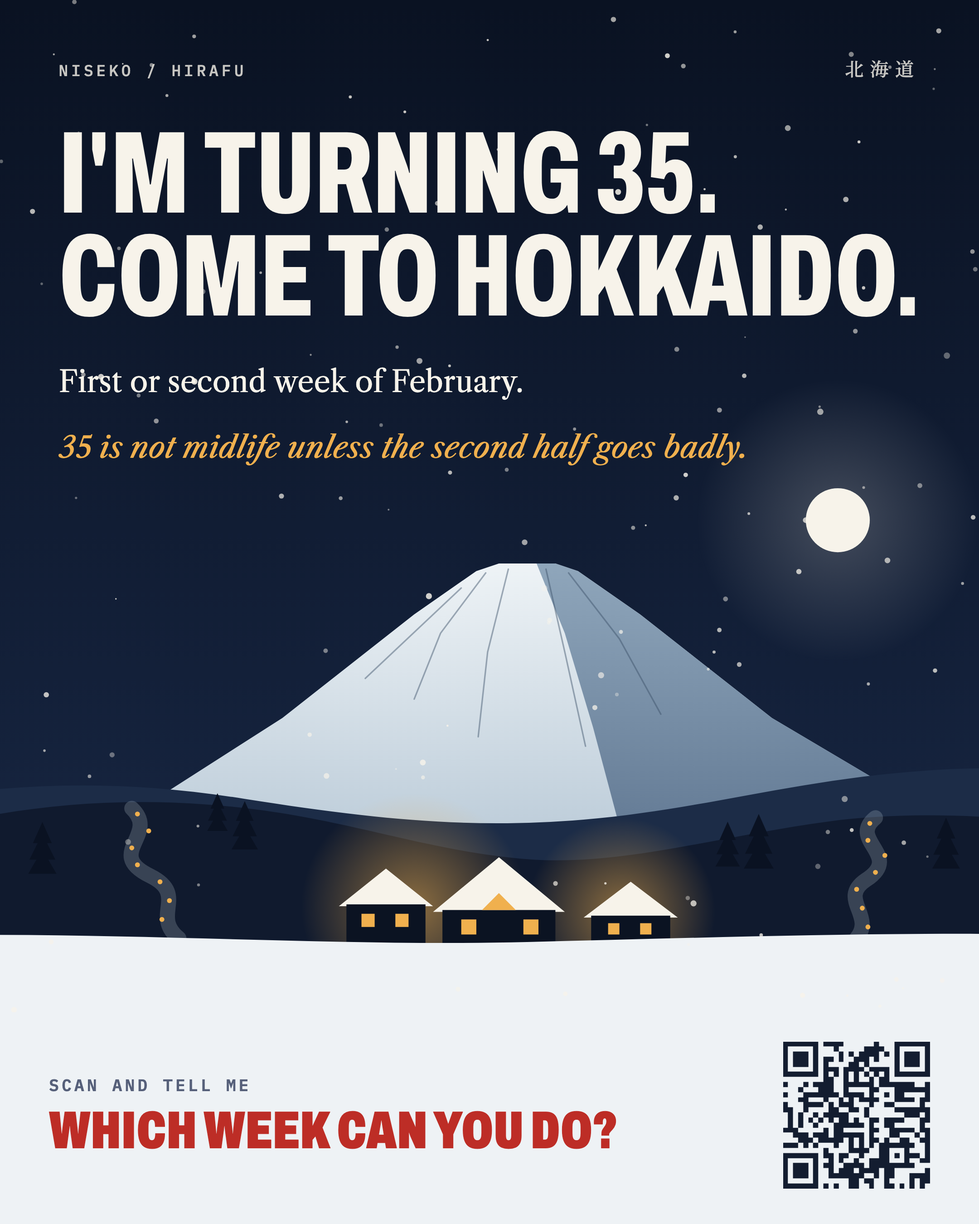
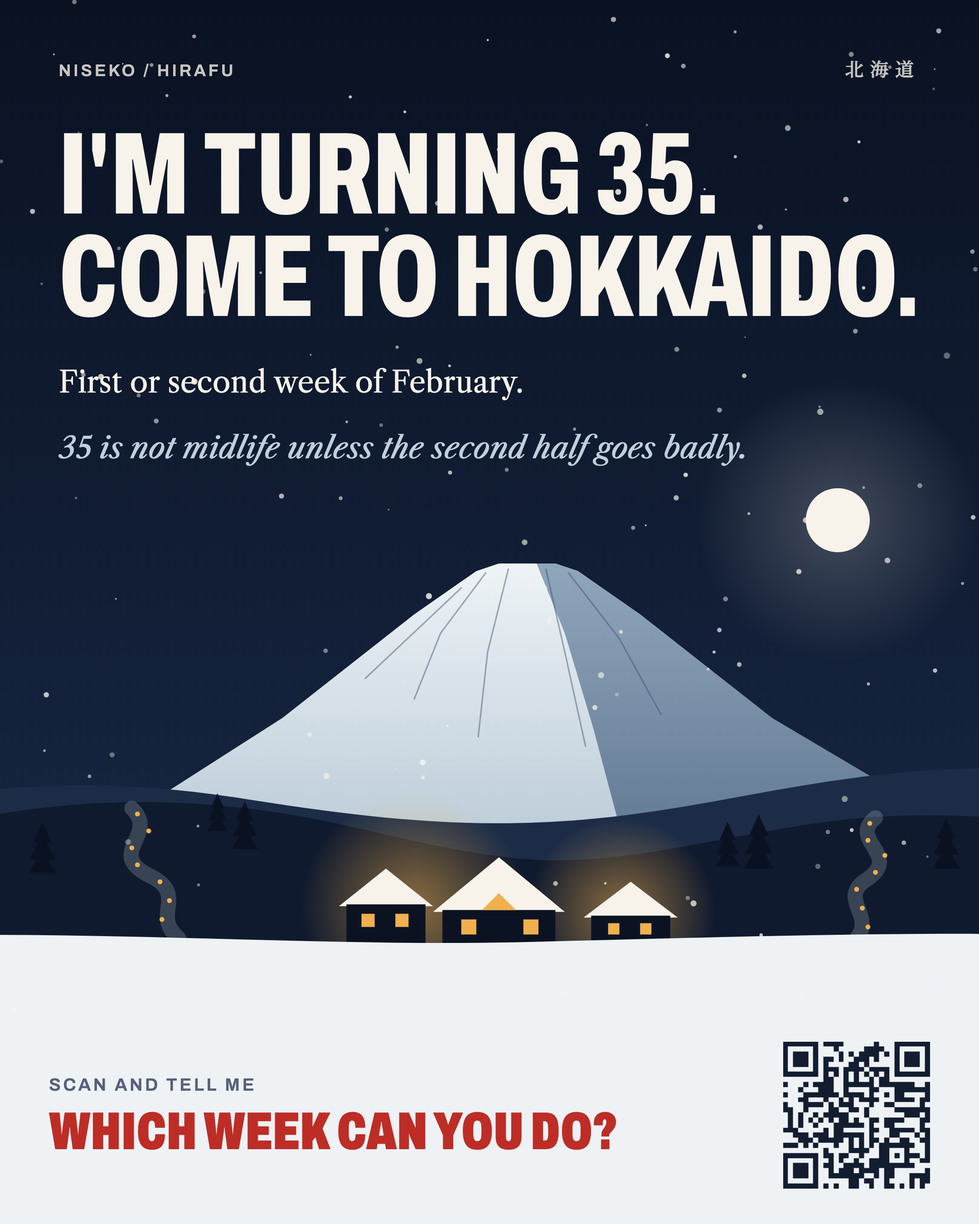
December birthday, February trip; chalet-or-hotel section; fewer colours and fonts

diff --git a/index.html b/index.html
@@ -14,7 +14,7 @@
 <title>Come to Hokkaido</title>
 <link rel="preconnect" href="https://fonts.googleapis.com">
 <link rel="preconnect" href="https://fonts.gstatic.com" crossorigin>
-<link rel="stylesheet" href="https://fonts.googleapis.com/css2?family=Archivo:wdth,wght@62..125,400..900&family=IBM+Plex+Mono:wght@400;500;600&family=Libre+Caslon+Text:ital,wght@0,400;0,700;1,400&family=Noto+Serif+JP:wght@500;700&display=swap">
+<link rel="stylesheet" href="https://fonts.googleapis.com/css2?family=Archivo:wdth,wght@62..125,400..900&family=Libre+Caslon+Text:ital,wght@0,400;0,700;1,400&family=Noto+Serif+JP:wght@500;700&display=swap">
 <style>
 :root{
   --night:#0E172A;
@@ -44,10 +44,10 @@ a{color:inherit}
 h1,h2,h3{margin:0;text-wrap:balance}
 p{margin:0}
 .disp{font-family:var(--display);font-stretch:62%;font-variation-settings:"wdth" 62;font-weight:800;text-transform:uppercase;line-height:.9;letter-spacing:-.003em}
-.label{font-family:var(--mono);font-size:11.5px;font-weight:500;letter-spacing:.16em;text-transform:uppercase}
+.label{font-family:var(--display);font-stretch:100%;font-variation-settings:"wdth" 100;font-size:12.5px;font-weight:600;letter-spacing:.14em;text-transform:uppercase}
 .jp{font-family:var(--jp);font-weight:500}
 
-.btn{display:inline-flex;align-items:center;justify-content:center;gap:10px;font:600 13px/1 var(--mono);letter-spacing:.14em;text-transform:uppercase;text-decoration:none;padding:17px 24px;border:1.5px solid currentColor;background:transparent;color:inherit;cursor:pointer;transition:background .15s,color .15s,border-color .15s}
+.btn{display:inline-flex;align-items:center;justify-content:center;gap:10px;font:700 14px/1 var(--display);letter-spacing:.1em;text-transform:uppercase;text-decoration:none;padding:17px 24px;border:1.5px solid currentColor;background:transparent;color:inherit;cursor:pointer;transition:background .15s,color .15s,border-color .15s}
 .btn.red{background:var(--red);border-color:var(--red);color:var(--snow)}
 .btn.red:hover{background:#A3241E;border-color:#A3241E}
 .btn.ghost:hover{background:var(--snow);color:var(--ink);border-color:var(--snow)}
@@ -66,7 +66,7 @@ p{margin:0}
 .hero h1{font-size:clamp(58px,11vw,168px);margin-top:18px;max-width:9.5em}
 .hero h1 span{display:block}
 .hero .dates{margin-top:26px;font-size:clamp(19px,2vw,24px)}
-.hero .kill{margin-top:10px;font-style:italic;font-size:clamp(19px,2vw,24px);color:var(--lamp)}
+.hero .kill{margin-top:10px;font-style:italic;font-size:clamp(19px,2vw,24px);color:var(--ice)}
 .hero .cta{display:flex;gap:12px;flex-wrap:wrap;margin-top:32px}
 .hero-art{position:relative;z-index:1;margin-top:clamp(-40px,-4vw,-10px)}
 .hero-art svg{display:block;width:100%;height:auto}
@@ -83,23 +83,29 @@ section{padding-block:clamp(72px,10vw,136px)}
 
 /* house */
 .house{background:var(--snow)}
-.house-grid{display:grid;grid-template-columns:1.1fr 1fr;gap:clamp(32px,5vw,72px);align-items:center}
-.house-grid > *{min-width:0}
-.house figure{margin:0}
-.house figure svg{display:block;width:100%;height:auto}
-.facts{margin-top:28px;border-top:1.5px solid var(--ink)}
-.facts div{display:grid;grid-template-columns:130px 1fr;gap:16px;padding-block:13px;border-bottom:1px solid var(--rule)}
-.facts dt{padding-top:5px}
-.facts dd{margin:0;font-size:18px}
-.facts .fine{display:block;font-size:14.5px;color:var(--ink-soft);font-style:italic;margin-top:2px}
-.chef{margin-top:22px;font-style:italic;font-size:21px}
-.nearby{margin-top:clamp(48px,7vw,80px);display:grid;grid-template-columns:1fr 1.4fr;gap:clamp(24px,4vw,56px);padding-top:clamp(28px,4vw,40px);border-top:1.5px solid var(--ink)}
-.nearby > *{min-width:0}
-.nearby h3{font-size:clamp(34px,4.4vw,58px)}
-.nearby p{font-size:20px;line-height:1.5}
-.nearby p + p{margin-top:14px}
-.nearby .quiet{font-style:italic;color:var(--ink-soft);font-size:18px}
-@media (max-width:860px){.house-grid,.nearby{grid-template-columns:1fr}}
+.stay{display:grid;grid-template-columns:1fr auto 1fr;gap:clamp(14px,2vw,28px);margin-top:clamp(32px,5vw,52px);align-items:stretch}
+.stay > *{min-width:0}
+.opt{background:var(--paper);border:1.5px solid var(--ink);display:flex;flex-direction:column}
+.opt figure{margin:0;border-bottom:1.5px solid var(--ink)}
+.opt figure svg{display:block;width:100%;height:auto;aspect-ratio:600/470}
+.opt-body{padding:clamp(20px,2.6vw,32px);display:flex;flex-direction:column;flex:1}
+.opt-num{color:var(--red)}
+.opt h3{font-size:clamp(36px,4vw,54px);margin-top:8px}
+.opt-sub{margin-top:8px;font-size:19px}
+.facts{margin-top:22px;border-top:1.5px solid var(--ink)}
+.facts div{display:grid;grid-template-columns:78px 1fr;gap:14px;padding-block:12px;border-bottom:1px solid var(--rule)}
+.facts dt{padding-top:3px}
+.facts dd{margin:0;font-size:17.5px}
+.facts .fine{display:block;font-size:14.5px;color:var(--ink-soft);font-style:italic;margin-top:4px}
+.chef{margin-top:auto;padding-top:20px;font-style:italic;font-size:19px}
+.or{display:flex;align-items:center;justify-content:center}
+.or span{font-family:var(--display);font-stretch:62%;font-variation-settings:"wdth" 62;font-weight:800;text-transform:uppercase;font-size:clamp(40px,5vw,64px);color:var(--red);line-height:1}
+.either{margin-top:clamp(28px,4vw,44px);display:grid;grid-template-columns:auto repeat(3,1fr);gap:0;border-top:1.5px solid var(--ink);border-bottom:1.5px solid var(--ink)}
+.either > *{padding:18px 20px 18px 0;min-width:0}
+.either-k{color:var(--red);padding-top:22px;padding-right:28px}
+.either strong{font-family:var(--display);font-stretch:80%;font-variation-settings:"wdth" 80;font-weight:700;font-size:19px;text-transform:uppercase}
+.either p{font-size:17px;margin-top:4px}
+@media (max-width:860px){.stay{grid-template-columns:1fr}.or{padding-block:4px}.either{grid-template-columns:1fr}.either > *{padding:12px 0;border-bottom:1px solid var(--rule)}.either > *:last-child{border-bottom:none}}
 @media (max-width:480px){.facts div{grid-template-columns:1fr;gap:2px}}
 
 /* do */
@@ -119,15 +125,15 @@ section{padding-block:clamp(72px,10vw,136px)}
 
 /* birthday + week (night) */
 .night{background:var(--night);color:var(--snow)}
-.night .eyebrow{color:var(--lamp)}
+.night .eyebrow{color:var(--ice)}
 .bday-grid{display:grid;grid-template-columns:1fr 1fr;gap:clamp(40px,6vw,96px)}
 .bday-grid > *{min-width:0}
 .night .big-copy p{max-width:22em}
-.hit{margin-top:clamp(24px,3vw,34px);font-size:clamp(21px,2.3vw,28px);line-height:1.4;color:var(--lamp);max-width:22em}
+.hit{margin-top:clamp(24px,3vw,34px);font-size:clamp(21px,2.3vw,28px);line-height:1.4;color:var(--snow);font-style:italic;max-width:22em}
 .day{list-style:none;margin:10px 0 0;padding:0;border-top:1px solid rgba(247,243,234,.25)}
 .day li{display:grid;grid-template-columns:78px 1fr;gap:16px;padding-block:14px;border-bottom:1px solid rgba(247,243,234,.14);font-size:19px;align-items:baseline}
-.day time{font:500 16px/1 var(--mono);font-variant-numeric:tabular-nums;opacity:.7}
-.day li.late{color:var(--lamp)}
+.day time{font:600 17px/1 var(--display);font-variant-numeric:tabular-nums;opacity:.7}
+.day li.late{color:var(--ice);font-style:italic}
 .day li.late time{opacity:1}
 .day-note{margin-top:14px;font-size:15px;opacity:.65;font-style:italic}
 @media (max-width:860px){.bday-grid{grid-template-columns:1fr}}
@@ -160,9 +166,9 @@ form{display:flex;flex-direction:column}
 .row{display:flex;flex-wrap:wrap;gap:16px 28px}
 .stepper{display:flex;flex-direction:column;gap:8px}
 .stepper .ctl{display:flex;border:1.5px solid var(--ink);background:var(--paper);width:max-content}
-.stepper button{width:44px;height:46px;border:none;background:transparent;font:600 20px/1 var(--mono);color:var(--ink);cursor:pointer}
+.stepper button{width:44px;height:46px;border:none;background:transparent;font:700 20px/1 var(--display);color:var(--ink);cursor:pointer}
 .stepper button:hover{background:var(--ink);color:var(--snow)}
-.stepper input{width:56px;height:46px;border:none;border-inline:1px solid var(--rule);text-align:center;font:600 20px/1 var(--mono);background:var(--snow);color:var(--ink);-moz-appearance:textfield}
+.stepper input{width:56px;height:46px;border:none;border-inline:1px solid var(--rule);text-align:center;font:700 20px/1 var(--display);background:var(--snow);color:var(--ink);-moz-appearance:textfield}
 .stepper input::-webkit-inner-spin-button{-webkit-appearance:none}
 .field{display:flex;flex-direction:column;gap:8px;flex:1;min-width:220px}
 .field input,.field textarea{font:18px/1.45 var(--serif);color:var(--ink);background:var(--paper);border:1.5px solid var(--rule);padding:12px 14px;width:100%}
@@ -171,13 +177,13 @@ form{display:flex;flex-direction:column}
 .field input::placeholder,.field textarea::placeholder{color:#8B909B;font-style:italic}
 .send{display:flex;align-items:center;gap:18px;flex-wrap:wrap}
 .send .btn{font-size:14px;padding:18px 40px}
-.err{color:var(--red);font:500 13px/1.4 var(--mono);margin-top:12px;min-height:1.4em}
+.err{color:var(--red);font:15px/1.4 var(--serif);margin-top:12px;min-height:1.4em}
 .q.bad legend,.q.bad .qlabel{color:var(--red)}
 .done h3{font-size:clamp(40px,5vw,64px)}
 .done p{font-size:20px;margin-top:14px;max-width:28em}
 .done .acts{display:flex;flex-wrap:wrap;gap:12px;margin-top:24px}
 .done .tiny{font-size:15px;color:var(--ink-soft);font-style:italic;margin-top:18px}
-.toast{font:500 12.5px/1.4 var(--mono);color:var(--pine);min-height:1.4em;margin-top:10px}
+.toast{font:15px/1.4 var(--serif);color:var(--ink);min-height:1.4em;margin-top:10px}
 
 /* faq */
 .faq{display:grid;grid-template-columns:repeat(2,1fr);gap:0 clamp(28px,5vw,72px);margin-top:clamp(28px,4vw,48px)}
@@ -192,7 +198,7 @@ form{display:flex;flex-direction:column}
 .end{background:var(--night);color:var(--snow);padding-block:clamp(80px,11vw,140px) 56px;text-align:left;position:relative;overflow:hidden}
 .end .disp{font-size:clamp(56px,10vw,150px)}
 .end .disp span{display:block}
-.end .disp span:last-child{color:var(--lamp)}
+.end .disp span:last-child{color:var(--ice)}
 .end .hope{margin-top:30px;font-size:clamp(22px,2.4vw,30px);font-style:italic}
 .end .tiny{margin-top:clamp(56px,8vw,96px);font-size:14px;opacity:.55;display:flex;justify-content:space-between;gap:16px;flex-wrap:wrap}
 .end .tiny a{text-decoration:underline;text-underline-offset:3px}
@@ -210,7 +216,7 @@ form{display:flex;flex-direction:column}
   <div class="wrap hero-text">
     <p class="where"><span class="label">Niseko / Hirafu</span><span class="jp">北海道</span></p>
     <h1 class="disp"><span>I'm turning 35.</span><span>Come to Hokkaido.</span></h1>
-    <p class="dates">First or second week of February.</p>
+    <p class="dates">The birthday is in December. The celebration is in Hokkaido, first or second week of February.</p>
     <p class="kill">35 is not midlife unless the second half goes badly.</p>
     <div class="cta">
       <a class="btn red" href="#which-week">Tell me which week</a>
@@ -273,7 +279,7 @@ form{display:flex;flex-direction:column}
   <div class="wrap">
     <span class="label eyebrow">The plan</span>
     <div class="big-copy">
-      <p>I'm turning 35 in February and I want a bunch of people I love in Hokkaido for a week.</p>
+      <p>I turn 35 in December, and in February I want a bunch of people I love in Hokkaido for a week.</p>
       <p>A month ago you all flew in for my wedding. I've chosen to interpret that as a trend, not a favour.</p>
       <p>Friends, partners, kids, families. Ski if you want. Don't if you don't. Eat far too much, sit in hot springs, drink things.</p>
       <p>The trip is happening. I just need to know which week before I book the house.</p>
@@ -284,9 +290,14 @@ form{display:flex;flex-direction:column}
 
 <section class="house" id="house">
   <div class="wrap">
-    <div class="house-grid">
-      <figure aria-hidden="true">
-        <svg viewBox="0 0 600 470">
+    <span class="label eyebrow">Where to stay</span>
+    <h2 class="disp h2">Chalet or hotel. Your call.</h2>
+    <p class="aside" style="margin-top:18px">Two ways to stay. Pick whichever works for you. Either way, you're part of everything.</p>
+
+    <div class="stay">
+      <article class="opt">
+        <figure aria-hidden="true">
+          <svg viewBox="0 0 600 470">
           <defs>
             <radialGradient id="hglow" cx=".5" cy=".6"><stop offset="0" stop-color="#F0B04E" stop-opacity=".5"/><stop offset="1" stop-color="#F0B04E" stop-opacity="0"/></radialGradient>
             <linearGradient id="hsky" x1="0" x2="0" y1="0" y2="1"><stop offset="0" stop-color="#0A1222"/><stop offset="1" stop-color="#22355A"/></linearGradient>
@@ -328,27 +339,73 @@ form{display:flex;flex-direction:column}
           <path d="M150 378 C220 372 380 372 450 378 L450 388 L150 388 Z" fill="#DCE5EC"/>
           <path d="M40 420 C160 410 300 432 440 420 C520 414 570 420 600 424" stroke="#BFD0DC" stroke-width="2" fill="none"/>
         </svg>
-      </figure>
+        </figure>
+        <div class="opt-body">
+          <span class="label opt-num">Option 1</span>
+          <h3 class="disp">The chalet</h3>
+          <p class="opt-sub">Stay under one roof with the group.</p>
+          <dl class="facts">
+            <div><dt class="label">Who</dt><dd>Around 10–15 of us</dd></div>
+            <div><dt class="label">Cost</dt><dd>Roughly USD 2,500 per person, full week<span class="fine">Current estimate. Depends on the final chalet, how many of us are in it, and the dates. I should not be left alone with chalet websites.</span></dd></div>
+            <div><dt class="label">Food</dt><dd>Possibly a private chef or catering</dd></div>
+          </dl>
+          <p class="chef">Private chef: not confirmed. I regret discovering the option.</p>
+        </div>
+      </article>
 
-      <div>
-        <span class="label eyebrow">The house</span>
-        <h2 class="disp h2">A big chalet in Hirafu.</h2>
-        <dl class="facts">
-          <div><dt class="label">Sleeps</dt><dd>Around 10–15 people</dd></div>
-          <div><dt class="label">Where</dt><dd>Niseko / Hirafu</dd></div>
-          <div><dt class="label">Cost</dt><dd>Roughly USD 2,500 per person for the full week<span class="fine">Current estimate. Depends on the final chalet, how many of us are in it, and the dates. I should not be left alone with chalet websites.</span></dd></div>
-          <div><dt class="label">Food</dt><dd>Possibly a private chef or catering</dd></div>
-        </dl>
-        <p class="chef">Private chef: not confirmed. I regret discovering the option.</p>
-      </div>
+      <div class="or" aria-hidden="true"><span>or</span></div>
+
+      <article class="opt">
+        <figure aria-hidden="true">
+          <svg viewBox="0 0 600 470">
+          <defs>
+            <linearGradient id="hsky2" x1="0" x2="0" y1="0" y2="1"><stop offset="0" stop-color="#0A1222"/><stop offset="1" stop-color="#22355A"/></linearGradient>
+            <radialGradient id="hglow2" cx=".5" cy=".7"><stop offset="0" stop-color="#F0B04E" stop-opacity=".35"/><stop offset="1" stop-color="#F0B04E" stop-opacity="0"/></radialGradient>
+          </defs>
+          <rect width="600" height="470" fill="url(#hsky2)"/>
+          <g fill="#F7F3EA" opacity=".8"><circle cx="70" cy="40" r="1.6"/><circle cx="170" cy="90" r="1.2"/><circle cx="460" cy="50" r="1.4"/><circle cx="550" cy="120" r="1"/><circle cx="320" cy="30" r="1.2"/></g>
+          <path d="M0 330 C140 300 260 312 340 322 C440 334 520 304 600 312 L600 470 L0 470 Z" fill="#16243E"/>
+          <circle cx="300" cy="330" r="240" fill="url(#hglow2)"/>
+          <!-- three buildings -->
+          <rect x="60" y="200" width="150" height="180" fill="#0E172A"/><path d="M52 204 L218 204 L210 190 L60 190 Z" fill="#F7F3EA"/>
+          <rect x="230" y="150" width="140" height="230" fill="#131D30"/><path d="M222 154 L378 154 L370 138 L230 138 Z" fill="#F7F3EA"/>
+          <rect x="390" y="220" width="150" height="160" fill="#0E172A"/><path d="M382 224 L548 224 L540 210 L390 210 Z" fill="#F7F3EA"/>
+          <g fill="#F0B04E">
+            <rect x="80" y="220" width="22" height="22"/><rect x="124" y="220" width="22" height="22" opacity=".25"/><rect x="168" y="220" width="22" height="22"/>
+            <rect x="80" y="266" width="22" height="22" opacity=".25"/><rect x="124" y="266" width="22" height="22"/><rect x="168" y="266" width="22" height="22"/>
+            <rect x="80" y="312" width="22" height="22"/><rect x="124" y="312" width="22" height="22"/><rect x="168" y="312" width="22" height="22" opacity=".25"/>
+            <rect x="250" y="170" width="22" height="22"/><rect x="289" y="170" width="22" height="22" opacity=".25"/><rect x="328" y="170" width="22" height="22"/>
+            <rect x="250" y="214" width="22" height="22" opacity=".25"/><rect x="289" y="214" width="22" height="22"/><rect x="328" y="214" width="22" height="22"/>
+            <rect x="250" y="258" width="22" height="22"/><rect x="289" y="258" width="22" height="22"/><rect x="328" y="258" width="22" height="22" opacity=".25"/>
+            <rect x="250" y="302" width="22" height="22"/><rect x="289" y="302" width="22" height="22" opacity=".25"/><rect x="328" y="302" width="22" height="22"/>
+            <rect x="410" y="240" width="22" height="22"/><rect x="454" y="240" width="22" height="22"/><rect x="498" y="240" width="22" height="22" opacity=".25"/>
+            <rect x="410" y="286" width="22" height="22" opacity=".25"/><rect x="454" y="286" width="22" height="22"/><rect x="498" y="286" width="22" height="22"/>
+            <rect x="282" y="344" width="36" height="36"/>
+          </g>
+          <line x1="215" y1="380" x2="215" y2="316" stroke="#0A1222" stroke-width="3"/><circle cx="215" cy="312" r="6" fill="#F0B04E"/><circle cx="215" cy="312" r="18" fill="#F0B04E" opacity=".2"/>
+          <path d="M0 380 C120 366 220 374 300 378 C400 386 500 368 600 372 L600 470 L0 470 Z" fill="#EEF2F5"/>
+          <path d="M40 420 C160 410 300 432 440 420 C520 414 570 420 600 424" stroke="#BFD0DC" stroke-width="2" fill="none"/>
+        </svg>
+        </figure>
+        <div class="opt-body">
+          <span class="label opt-num">Option 2</span>
+          <h3 class="disp">A hotel or apartment nearby</h3>
+          <p class="opt-sub">Your own place in Hirafu, at your own budget.</p>
+          <dl class="facts">
+            <div><dt class="label">Who</dt><dd>Just you, your partner, your kids</dd></div>
+            <div><dt class="label">Cost</dt><dd>Whatever you choose. Hirafu has everything from simple to very nice.</dd></div>
+            <div><dt class="label">Nights</dt><dd>As many or as few as you like</dd></div>
+          </dl>
+          <p class="chef">I may end up doing the same once I see the final chalet bill.</p>
+        </div>
+      </article>
     </div>
 
-    <div class="nearby">
-      <h3 class="disp">Or stay nearby.</h3>
-      <div>
-        <p>If you'd rather stay in a hotel or apartment nearby, perfect. There's everything in Hirafu from simple to very nice. Pick whatever works for your budget and join everything.</p>
-        <p class="quiet">I may end up doing the same once I see the final chalet bill.</p>
-      </div>
+    <div class="either">
+      <span class="label either-k">Either way</span>
+      <div><strong>Flights</strong><p>You book your own.</p></div>
+      <div><strong>Birthday dinners</strong><p>On me, for everyone, wherever you sleep.</p></div>
+      <div><strong>Everything else</strong><p>Skiing, onsen, day trips. Join as much as you like.</p></div>
     </div>
   </div>
 </section>
@@ -369,7 +426,7 @@ form{display:flex;flex-direction:column}
         <div class="cap"><div class="name"><h3>Ski</h3><span class="jp">スキー</span></div><p>Some of the best powder on earth. Night skiing too.</p></div>
       </div>
       <div class="tile">
-        <svg viewBox="0 0 200 150" aria-hidden="true"><rect width="200" height="150" fill="#BFD0DC"/><path d="M0 150 L0 100 C50 80 120 70 200 60 L200 150 Z" fill="#F7F3EA"/><g fill="#243C31"><path d="M30 104 L22 70 L14 104 Z"/><path d="M44 100 L36 60 L28 100 Z"/><path d="M160 72 L152 40 L144 72 Z"/><path d="M176 70 L168 34 L160 70 Z"/></g><path d="M70 150 C80 130 120 124 110 104 C104 92 130 86 140 72" stroke="#16243E" stroke-width="3" fill="none" stroke-linecap="round" opacity=".5"/></svg>
+        <svg viewBox="0 0 200 150" aria-hidden="true"><rect width="200" height="150" fill="#BFD0DC"/><path d="M0 150 L0 100 C50 80 120 70 200 60 L200 150 Z" fill="#F7F3EA"/><g fill="#16243E"><path d="M30 104 L22 70 L14 104 Z"/><path d="M44 100 L36 60 L28 100 Z"/><path d="M160 72 L152 40 L144 72 Z"/><path d="M176 70 L168 34 L160 70 Z"/></g><path d="M70 150 C80 130 120 124 110 104 C104 92 130 86 140 72" stroke="#16243E" stroke-width="3" fill="none" stroke-linecap="round" opacity=".5"/></svg>
         <div class="cap"><div class="name"><h3>Snowboard</h3><span class="jp">スノーボード</span></div><p>Trees, bowls, and very deep snow.</p></div>
       </div>
       <div class="tile">
@@ -377,7 +434,7 @@ form{display:flex;flex-direction:column}
         <div class="cap"><div class="name"><h3>Onsen</h3><span class="jp">温泉</span></div><p>Outdoor hot springs, in the snow, facing Yōtei.</p></div>
       </div>
       <div class="tile">
-        <svg viewBox="0 0 200 150" aria-hidden="true"><rect width="200" height="150" fill="#BD2D26"/><ellipse cx="100" cy="74" rx="66" ry="16" fill="#F7F3EA"/><path d="M34 74 C38 120 162 120 166 74 Z" fill="#F7F3EA"/><ellipse cx="100" cy="74" rx="58" ry="11" fill="#E0A247"/><g stroke="#F4D38A" stroke-width="2.4" fill="none"><path d="M60 74 C70 68 80 80 90 72 C100 66 110 80 120 72 C130 66 140 78 146 72"/></g><ellipse cx="80" cy="72" rx="9" ry="6" fill="#F7F3EA"/><ellipse cx="80" cy="72" rx="4" ry="3" fill="#F0B04E"/><rect x="112" y="66" width="18" height="8" fill="#16243E"/><g stroke="#3F2A1B" stroke-width="3" stroke-linecap="round"><line x1="118" y1="70" x2="176" y2="30"/><line x1="126" y1="72" x2="184" y2="36"/></g></svg>
+        <svg viewBox="0 0 200 150" aria-hidden="true"><rect width="200" height="150" fill="#DCE5EC"/><ellipse cx="100" cy="74" rx="66" ry="16" fill="#F7F3EA"/><path d="M34 74 C38 120 162 120 166 74 Z" fill="#F7F3EA"/><ellipse cx="100" cy="74" rx="58" ry="11" fill="#F0B04E"/><g stroke="#F7F3EA" stroke-width="2.4" fill="none"><path d="M60 74 C70 68 80 80 90 72 C100 66 110 80 120 72 C130 66 140 78 146 72"/></g><ellipse cx="80" cy="72" rx="9" ry="6" fill="#F7F3EA"/><ellipse cx="80" cy="72" rx="4" ry="3" fill="#F0B04E"/><rect x="112" y="66" width="18" height="8" fill="#16243E"/><g stroke="#0E172A" stroke-width="3" stroke-linecap="round"><line x1="118" y1="70" x2="176" y2="30"/><line x1="126" y1="72" x2="184" y2="36"/></g></svg>
         <div class="cap"><div class="name"><h3>Ramen</h3><span class="jp">ラーメン</span></div><p>Miso ramen is from here. It shows.</p></div>
       </div>
       <div class="tile">
@@ -385,11 +442,11 @@ form{display:flex;flex-direction:column}
         <div class="cap"><div class="name"><h3>Izakaya</h3><span class="jp">居酒屋</span></div><p>Small plates, skewers, cold beer, loud rooms.</p></div>
       </div>
       <div class="tile">
-        <svg viewBox="0 0 200 150" aria-hidden="true"><rect width="200" height="150" fill="#EFE8D8"/><path d="M84 34 C84 26 96 26 96 34 L96 44 C96 50 118 60 118 86 L118 118 C118 124 62 124 62 118 L62 86 C62 60 84 50 84 44 Z" fill="#16243E"/><rect x="84" y="28" width="12" height="6" fill="#16243E"/><path d="M130 100 L160 100 L156 120 L134 120 Z" fill="#F7F3EA" stroke="#16243E" stroke-width="2"/><ellipse cx="145" cy="101" rx="14" ry="3" fill="#BFD0DC"/><rect x="0" y="122" width="200" height="28" fill="#D9CDB4"/></svg>
+        <svg viewBox="0 0 200 150" aria-hidden="true"><rect width="200" height="150" fill="#DCE5EC"/><path d="M84 34 C84 26 96 26 96 34 L96 44 C96 50 118 60 118 86 L118 118 C118 124 62 124 62 118 L62 86 C62 60 84 50 84 44 Z" fill="#16243E"/><rect x="84" y="28" width="12" height="6" fill="#16243E"/><path d="M130 100 L160 100 L156 120 L134 120 Z" fill="#F7F3EA" stroke="#16243E" stroke-width="2"/><ellipse cx="145" cy="101" rx="14" ry="3" fill="#BFD0DC"/><rect x="0" y="122" width="200" height="28" fill="#BFD0DC"/></svg>
         <div class="cap"><div class="name"><h3>Sake</h3><span class="jp">日本酒</span></div><p>Local breweries. Cold. Plenty.</p></div>
       </div>
       <div class="tile">
-        <svg viewBox="0 0 200 150" aria-hidden="true"><rect width="200" height="150" fill="#F7F3EA"/><circle cx="100" cy="82" r="56" fill="#243C31"/><circle cx="100" cy="82" r="46" fill="#EFE8D8"/><g><rect x="64" y="70" width="26" height="14" rx="6" fill="#F7F3EA"/><rect x="62" y="64" width="30" height="10" rx="5" fill="#E07A4A"/><rect x="98" y="72" width="26" height="14" rx="6" fill="#F7F3EA"/><rect x="96" y="66" width="30" height="10" rx="5" fill="#F0B04E"/><rect x="80" y="94" width="26" height="14" rx="6" fill="#F7F3EA"/><rect x="78" y="88" width="30" height="10" rx="5" fill="#BD2D26"/><rect x="108" y="96" width="18" height="10" rx="4" fill="#16243E"/></g></svg>
+        <svg viewBox="0 0 200 150" aria-hidden="true"><rect width="200" height="150" fill="#16243E"/><circle cx="100" cy="82" r="56" fill="#BFD0DC"/><circle cx="100" cy="82" r="46" fill="#F7F3EA"/><g><rect x="64" y="70" width="26" height="14" rx="6" fill="#F7F3EA"/><rect x="62" y="64" width="30" height="10" rx="5" fill="#BD2D26"/><rect x="98" y="72" width="26" height="14" rx="6" fill="#F7F3EA"/><rect x="96" y="66" width="30" height="10" rx="5" fill="#F0B04E"/><rect x="80" y="94" width="26" height="14" rx="6" fill="#F7F3EA"/><rect x="78" y="88" width="30" height="10" rx="5" fill="#BD2D26"/><rect x="108" y="96" width="18" height="10" rx="4" fill="#16243E"/></g></svg>
         <div class="cap"><div class="name"><h3>Eat</h3><span class="jp">食</span></div><p>Crab, uni, scallops, and absurdly good dairy.</p></div>
       </div>
       <div class="tile">
@@ -405,11 +462,11 @@ form{display:flex;flex-direction:column}
         <div class="cap"><div class="name"><h3>Winter stuff</h3><span class="jp">冬</span></div><p>Snowshoes, snowmobiles, frozen waterfalls.</p></div>
       </div>
       <div class="tile">
-        <svg viewBox="0 0 200 150" aria-hidden="true"><rect width="200" height="150" fill="#EFE8D8"/><path d="M0 116 C60 106 140 110 200 112 L200 150 L0 150 Z" fill="#F7F3EA"/><circle cx="84" cy="100" r="22" fill="#F7F3EA" stroke="#BFD0DC" stroke-width="2"/><circle cx="84" cy="66" r="15" fill="#F7F3EA" stroke="#BFD0DC" stroke-width="2"/><rect x="72" y="46" width="24" height="6" fill="#16243E"/><rect x="76" y="32" width="16" height="16" fill="#16243E"/><path d="M84 68 L96 70 L84 72 Z" fill="#E07A4A"/><circle cx="80" cy="62" r="1.6" fill="#16243E"/><circle cx="89" cy="62" r="1.6" fill="#16243E"/><path d="M70 80 L98 80 L96 86 L72 86 Z" fill="#BD2D26"/><g stroke="#5B3D28" stroke-width="3" fill="none" stroke-linecap="round"><path d="M130 124 L176 124 C182 124 184 118 180 114"/><line x1="138" y1="124" x2="138" y2="114"/><line x1="168" y1="124" x2="168" y2="114"/><line x1="134" y1="114" x2="172" y2="114"/></g></svg>
+        <svg viewBox="0 0 200 150" aria-hidden="true"><rect width="200" height="150" fill="#DCE5EC"/><path d="M0 116 C60 106 140 110 200 112 L200 150 L0 150 Z" fill="#F7F3EA"/><circle cx="84" cy="100" r="22" fill="#F7F3EA" stroke="#BFD0DC" stroke-width="2"/><circle cx="84" cy="66" r="15" fill="#F7F3EA" stroke="#BFD0DC" stroke-width="2"/><rect x="72" y="46" width="24" height="6" fill="#16243E"/><rect x="76" y="32" width="16" height="16" fill="#16243E"/><path d="M84 68 L96 70 L84 72 Z" fill="#BD2D26"/><circle cx="80" cy="62" r="1.6" fill="#16243E"/><circle cx="89" cy="62" r="1.6" fill="#16243E"/><path d="M70 80 L98 80 L96 86 L72 86 Z" fill="#BD2D26"/><g stroke="#16243E" stroke-width="3" fill="none" stroke-linecap="round"><path d="M130 124 L176 124 C182 124 184 118 180 114"/><line x1="138" y1="124" x2="138" y2="114"/><line x1="168" y1="124" x2="168" y2="114"/><line x1="134" y1="114" x2="172" y2="114"/></g></svg>
         <div class="cap"><div class="name"><h3>Kids</h3><span class="jp">子ども</span></div><p>Ski school, sledging, snow deeper than they are.</p></div>
       </div>
       <div class="tile">
-        <svg viewBox="0 0 200 150" aria-hidden="true"><rect width="200" height="150" fill="#5B3D28"/><rect x="30" y="18" width="140" height="104" fill="#22355A"/><g fill="#F7F3EA" opacity=".85"><circle cx="50" cy="30" r="1.8"/><circle cx="80" cy="50" r="1.4"/><circle cx="110" cy="28" r="1.8"/><circle cx="140" cy="60" r="1.4"/><circle cx="60" cy="80" r="1.6"/><circle cx="96" cy="96" r="1.4"/><circle cx="150" cy="100" r="1.8"/><circle cx="124" cy="80" r="1.2"/></g><path d="M30 106 C80 96 120 102 170 98 L170 122 L30 122 Z" fill="#DCE5EC"/><g stroke="#3F2A1B" stroke-width="5" fill="none"><rect x="30" y="18" width="140" height="104"/><line x1="100" y1="18" x2="100" y2="122"/></g><rect x="20" y="122" width="160" height="10" fill="#3F2A1B"/><path d="M124 108 L144 108 L142 122 L126 122 Z" fill="#F7F3EA"/><path d="M144 112 C152 112 152 118 144 118" stroke="#F7F3EA" stroke-width="2" fill="none"/></svg>
+        <svg viewBox="0 0 200 150" aria-hidden="true"><rect width="200" height="150" fill="#16243E"/><rect x="30" y="18" width="140" height="104" fill="#22355A"/><g fill="#F7F3EA" opacity=".85"><circle cx="50" cy="30" r="1.8"/><circle cx="80" cy="50" r="1.4"/><circle cx="110" cy="28" r="1.8"/><circle cx="140" cy="60" r="1.4"/><circle cx="60" cy="80" r="1.6"/><circle cx="96" cy="96" r="1.4"/><circle cx="150" cy="100" r="1.8"/><circle cx="124" cy="80" r="1.2"/></g><path d="M30 106 C80 96 120 102 170 98 L170 122 L30 122 Z" fill="#DCE5EC"/><g stroke="#0E172A" stroke-width="5" fill="none"><rect x="30" y="18" width="140" height="104"/><line x1="100" y1="18" x2="100" y2="122"/></g><rect x="20" y="122" width="160" height="10" fill="#0E172A"/><path d="M124 108 L144 108 L142 122 L126 122 Z" fill="#F7F3EA"/><path d="M144 112 C152 112 152 118 144 118" stroke="#F7F3EA" stroke-width="2" fill="none"/></svg>
         <div class="cap"><div class="name"><h3>Nothing</h3><span class="jp">何もしない</span></div><p>Window. Blanket. Snow.</p></div>
       </div>
     </div>
@@ -495,11 +552,11 @@ form{display:flex;flex-direction:column}
         </fieldset>
 
         <fieldset class="q">
-          <legend>Where would you stay?</legend>
+          <legend>Chalet or hotel?</legend>
           <div class="opts">
-            <label class="pill"><input type="radio" name="stay" value="Main chalet"><span>Main chalet</span></label>
-            <label class="pill"><input type="radio" name="stay" value="Somewhere nearby"><span>Somewhere nearby</span></label>
-            <label class="pill"><input type="radio" name="stay" value="Either"><span>Either</span></label>
+            <label class="pill"><input type="radio" name="stay" value="Main chalet"><span>The chalet</span></label>
+            <label class="pill"><input type="radio" name="stay" value="Somewhere nearby"><span>Hotel or apartment nearby</span></label>
+            <label class="pill"><input type="radio" name="stay" value="Either"><span>Either / not sure</span></label>
           </div>
         </fieldset>
 
